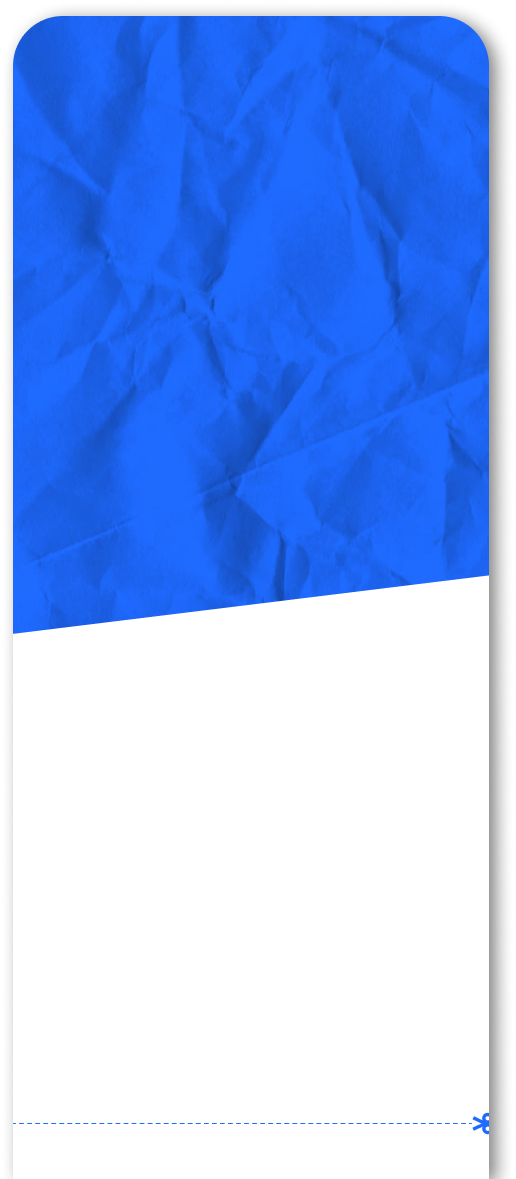
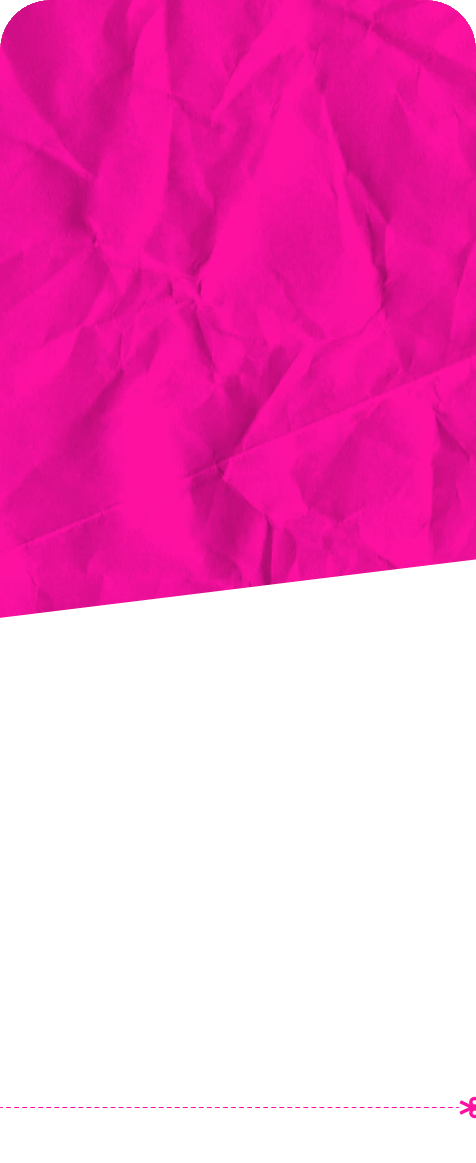
Redo entire side background

diff --git a/mappool/style.css b/mappool/style.css
@@ -1,7 +1,8 @@
 :root {
     --map-selection-title-height: 94px;
-    --colour-side-alignment: 54px;
+    --coloured-side-alignment: 68px;
     --team-banner-square-dimension: 346px;
+    --side-background-border-radius: 50px;
 }
 
 #main {
@@ -34,22 +35,13 @@
 /* Sides */
 .coloured-side {
     position: absolute;
-    top: 261px;
-    width: 476px;
+    top: 277px;
 }
-#left-side { left: var(--colour-side-alignment); }
-#right-side { right: calc(var(--colour-side-alignment) + 25px); }
+#left-side { left: var(--coloured-side-alignment); }
+#right-side { right: var(--coloured-side-alignment); }
 
-/* Team Banner */
-.team-banner {
-    position: absolute;
-    top: 85px;
-    left: 53%;
-    width: var(--team-banner-square-dimension);
-    height: var(--team-banner-square-dimension);
-    transform: translateX(-50%);
-    background-image: url("https://a.ppy.sh/8306102");
-    background-size: cover;
-    background-position: center;
-    border-radius: calc(var(--team-banner-square-dimension) / 2);
+/* Side backgrounds */
+.side-background {
+    border-radius: var(--side-background-border-radius) var(--side-background-border-radius) 0 0;
+    box-shadow: 0px 4px 4px rgba(0, 0, 0, 0.25);
 }

diff --git a/mappool/index.html b/mappool/index.html
@@ -15,12 +15,10 @@
 
         <!-- Team Sides -->
         <div class="coloured-side" id="left-side">
-            <!-- <img id="left-side-background" src="static/leftSide.png"> -->
-            <div class="team-banner" id="left-team-banner"></div>
+            <img class="side-background" src="static/leftSide.png">
         </div>
         <div class="coloured-side" id="right-side">
-            <img id="right-side-background" src="static/rightSide.png">
-            <div class="team-banner" id="right-team-banner"></div>
+            <img class="side-background" src="static/rightSide.png">
         </div>
     </div>
     <script src="index.js"></script>
